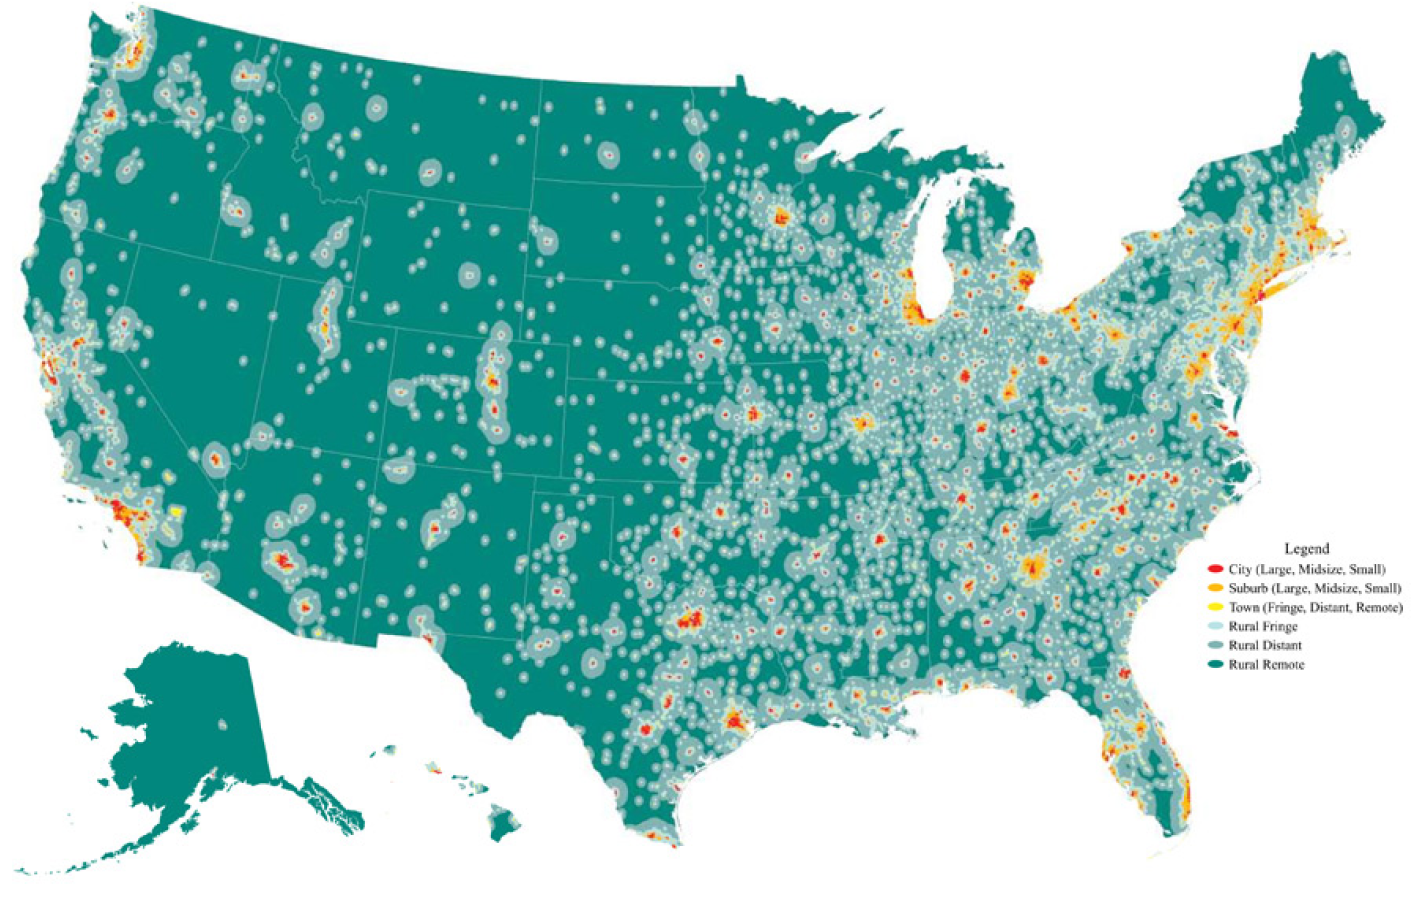
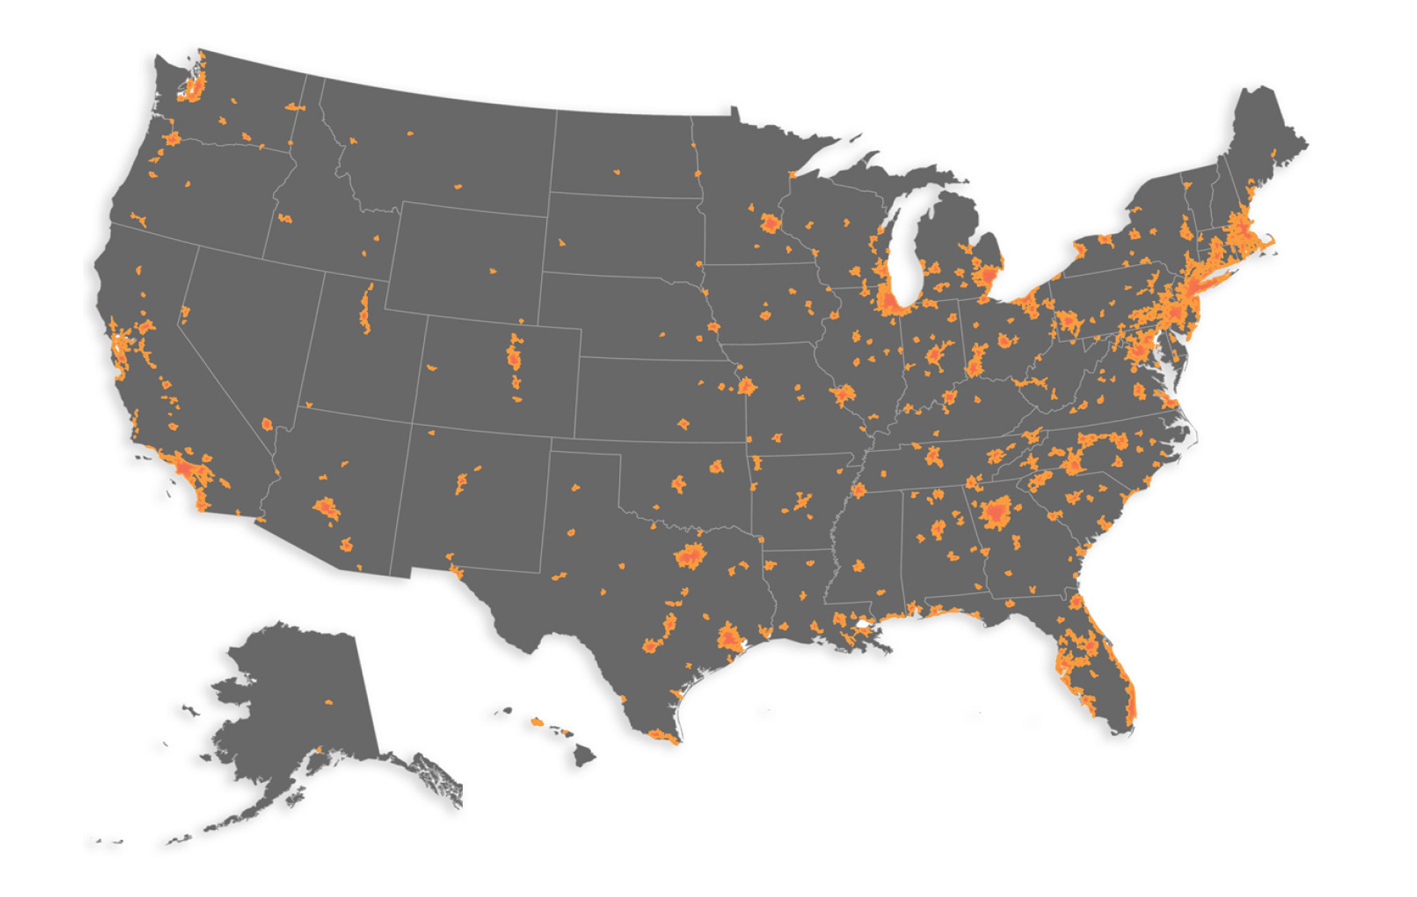
updating images, text changes and nav tweak

diff --git a/FAQ/index.html b/FAQ/index.html
@@ -12,9 +12,9 @@ title: home
 
         <p class="small"><strong>Why is Tree Equity important?</strong></p>
         <p class="small">Trees provide more than beauty or a comfortable place to relax. Much like schools, streets and sewer lines, trees are essential infrastructure. They are vital to the health, wealth and well-being of communities.</p>
-        <ul>
+        <ul class="small">
             <li>Trees across the U.S. absorb 17.4 million tons of air pollutants, preventing 670,000 cases of asthma and other acute respiratory symptoms annually.</li>
-            <li>In cities nationwide, <a href=https://www.americanforests.org/af-news/what-is-the-urban-heat-island-effect/">trees prevent approximately 1,200 heat-related deaths and countless heat-related illnesses annually</a> by lowering surface and air temperatures. The ability of trees to reduce peak temperatures is significant, given that a 10-fold increase in heat-related deaths is expected in the Eastern U.S. by 2050.</li>
+            <li>In cities nationwide, <a href="https://www.americanforests.org/af-news/what-is-the-urban-heat-island-effect/">trees prevent approximately 1,200 heat-related deaths and countless heat-related illnesses annually</a> by lowering surface and air temperatures. The ability of trees to reduce peak temperatures is significant, given that a 10-fold increase in heat-related deaths is expected in the Eastern U.S. by 2050.</li>
             <li>On average, trees in the U.S.reduce energy demand for heating and cooling by 7.2%.</li>
             <li>Trees are a source of income—such as jobs related to tree maintenance and making products out of reclaimed wood. For every $1 million invested in forest restoration, approximately 39 forest-related jobs are created in rural U.S. areas alone.</li>
         </ul>
@@ -25,11 +25,11 @@ title: home
         <p class="small">A tree canopy goal will help you determine where there is a greater need to invest in planting trees, providing a baseline for comparing neighborhoods and estimating progress towards more equitable tree canopy cover. </p>
 
         <p class="small"><strong>I don’t see my community on the map. Why is that?</strong></p>
-        <p class="small">TESA is built for urban forests (specifically in Rhode Island, for now). It’s possible that your community does not fall into a US Census-defined urbanized area for which the Tree Equity Score is calculated. There are additional resources for communities that fall outside this description. Please visit the Rhode Island Department of Environmental Management’s Division of Forest Environment to learn more: <a href=http://www.dem.ri.gov/programs/forestry/">http://www.dem.ri.gov/programs/forestry/</a>.</p>
+        <p class="small">TESA is built for urban forests (specifically in Rhode Island, for now). It’s possible that your community does not fall into a US Census-defined urbanized area for which the Tree Equity Score is calculated. There are additional resources for communities that fall outside this description. Please visit the Rhode Island Department of Environmental Management’s Division of Forest Environment to learn more: <a href="http://www.dem.ri.gov/programs/forestry/">http://www.dem.ri.gov/programs/forestry/</a>.</p>
 
         <p class="small"><strong>Where did you get all of the tool’s data from?</strong></p>
         <p class="small">TESA uses readily available data from: </p>
-        <ul>
+        <ul class="small">
             <li>U.S. Census Bureau</li>
             <li>U.S. Geological Survey</li>
             <li>Rhode Island Geographic Information System</li>
@@ -42,7 +42,7 @@ title: home
         <p class="small">Some data will be updated annually (e.g. census data, surface temperature) or bi-annually (e.g. parcel data). Other data will be updated on a multi-year schedule (e.g. tree canopy) as resources become available.</p>
 
         <p class="small"><strong>Are there other resources you would recommend for improving the tree canopy of Rhode Island from a state or regional level?</strong></p>
-        <ul>
+        <ul class="small">
             <li><a href="https://www.vibrantcitieslab.com/guides/climate-health-action-guide/">Climate & Health Action Guide</a></li>
             <li>RI Urban Forestry Funding and Policy Guide - coming soon! </li>
             <li><a href="http://www.dem.ri.gov/programs/forestry/urban-forestry/index.php">RI Department of Environmental Management - Division of Forestry Environment</a></li>

diff --git a/about/index.html b/about/index.html
@@ -18,7 +18,7 @@ title: home
         <p class="small">A Tree Equity Score uses a science-based approach to determine the tree canopy cover needed in a neighborhood to ensure the 
             <a href=https://www.americanforests.org/our-work/urban-forestry/">people living in urban areas benefit from everything trees provide.</a>
              The score is based on:</p>
-            <ul>
+            <ul class="small">
                 <li>Existing tree canopy cover</li>
                 <li>Population density</li>
                 <li>Income</li>
@@ -34,11 +34,11 @@ title: home
         <p class="small">Most states focus on their forests and prairies when they want to use green space to address the changing climate and its profound impact on our lives. But Rhode Island has taken a different approach- it is the only state in the country to consider its entire geographic footprint as one large urban forest to play “offense and defense” for both climate mitigation and community resilience. Because of the Governor’s commitment to urban forests, The Doris Duke Charitable Foundation (DDCF) selected the state of Rhode Island to partner with American Forests to increase Tree Equity statewide. As a result of DDCF’s investment, Rhode Island is the first state to calculate Tree Equity Scores for all of its urban neighborhoods and pilot a suite of technical, policy and financing tools that aim to unlock the full potential for urban forests to slow climate change and improve public health.</p>
         <p class="small">Our hope is that the urban forestry work in Rhode Island will be an inspiration to other towns and cities to pursue Tree Equity.</p>
         <h5>Diving Deep Locally: Tree Equity Score Analyzer</h5>
-        <p class="small">Rhode Island partnered with American Forests to go beyond Tree Equity Score by creating the Tree Equity Score Analyzer (TESA). This cutting-edge, interactive tool supports both policy and project-level interventions by incorporating local data, such as hospitalizations, carbon sequestration, and flood risk with ownership parcels. Users will be able to create custom reports about the impact of policy interventions encouraging tree planting in priority neighborhoods. At the project level, users can estimate the impacts of tree planting on a parcel or custom area.</p>
+        <p class="small">Rhode Island partnered with American Forests to go beyond Tree Equity Score by creating the <a href="https://rhode-island.treeequityscore.org/">Tree Equity Score Analyzer (TESA)</a>. This cutting-edge, interactive tool supports both policy and project-level interventions by incorporating local data, such as hospitalizations, carbon sequestration, and flood risk with ownership parcels. Users will be able to create custom reports about the impact of policy interventions encouraging tree planting in priority neighborhoods. At the project level, users can estimate the impacts of tree planting on a parcel or custom area.</p>
         <p class="small">While TESA’s primary audience includes state and local decision-makers and local tree advocates, it is accessible to the public to explore Ttree Eequity and help make the case for more tree investment in their neighborhoods.</p>
 
         <h5>Our Funders</h5>
-        <p class="small">This project is made possible by a partnership between the State of Rhode Island, American Forests, and the Environment and Child Well-Being programs of The Doris Duke Charitable Foundation (DDCF). We all have a shared interest in using urban forests as a powerful tool to 
+        <p class="small">This project is made possible by a partnership between the State of Rhode Island, <a href="https://www.americanforests.org/">American Forests</a>, and the Environment and Child Well-Being programs of <a href="https://www.ddcf.org/">The Doris Duke Charitable Foundation (DDCF)</a>. We all have a shared interest in using urban forests as a powerful tool to 
             <a href="https://www.americanforests.org/why-it-matters/climate/">slow climate change</a>,
              improve public health and promote 
              <a href="https://www.americanforests.org/why-it-matters/social-equity/">social equity</a>

diff --git a/index.html b/index.html
@@ -40,7 +40,7 @@ title: home
             <p class="medium">City government employees, community activists, urban foresters and others can use the scores to make the case for planting trees in the neighborhoods that need them most, and allocate the resources needed to do so.</p>
         </div>
         <div class="image-wrapper">
-            <img class="main" src="{{site.baseurl}}/static/media/equity-score.png">
+            <img class="main" src="{{site.baseurl}}/static/media/equity-score.jpg">
         </div>
     </section>
 
@@ -81,23 +81,23 @@ title: home
     </section>
 
     <section class="pilot-locations">
-        <h4>Our pilot locations</h4>
-        <p class="intro medium">Our government and non-profit partners in these locations are leading the way in driving investment in trees to the areas in greatest need.</p>
+        <div class="intro">
+            <h4>Our pilot locations</h4>
+            <p class="medium mb-3">Our government and non-profit partners in these locations are leading the way in driving investment in trees to the areas in greatest need.</p>
+            <a href="https://arcg.is/1rCPji0" target="_blank" class="btn btn-green">Explore</a>
+        </div>
         <div class="layout">
             <div class="column">
-                <img src="{{site.baseurl}}/static/media/location.png" width="270">
+                <img src="{{site.baseurl}}/static/media/tes-ri-map.jpg" width="270" alt="Rhode Island">
                 <p class="location">Rhode Island</p>
-                <a href="https://americanforests.maps.arcgis.com/apps/webappviewer/index.html?id=0c11e0633d354d45bcafb72bc077040e&extent=-13918545.6227%2C2656930.9351%2C-7338846.228%2C6526479.055%2C102100" target="_blank" class="btn btn-green">Explore</a>
             </div>
             <div class="column">
-                <img src="{{site.baseurl}}/static/media/location.png" width="270">
+                <img src="{{site.baseurl}}/static/media/tes-mar-map.jpg" width="270" alt="Maricopa County, AZ (including Phoenix)">
                 <p class="location">Maricopa County, AZ (including Phoenix)</p>
-                <a href="https://tesa.maptian.com/" target="_blank" class="btn btn-green">Explore</a>
             </div>
             <div class="column">
-                <img src="{{site.baseurl}}/static/media/location.png" width="270">
+                <img src="{{site.baseurl}}/static/media/tes-sf-map.jpg" width="270" alt="San Francisco Bay Area">
                 <p class="location">San Francisco Bay Area</p>
-                <a href="https://tesa.maptian.com/" target="_blank" class="btn btn-green">Explore</a>
             </div>
         </div>
     </section>
@@ -117,7 +117,7 @@ title: home
 
     <section class="looking-ahead">
         <div class="image-wrapper">
-            <img src="{{site.baseurl}}/static/media/looking-ahead.png">
+            <img src="{{site.baseurl}}/static/media/looking-ahead.png" alt="map of the united states highlighting urbanized areas">
         </div>
         <div class="text">
             <h4>Looking ahead</h4>

diff --git a/methodology/index.html b/methodology/index.html
@@ -16,14 +16,14 @@ title: home
 
         <h6>Density Adjusted Canopy Target</h6>
         <p class="small">The canopy target -- which is meant to be equitable, aspirational and achievable --  requires the following data:</p>
-        <ul>
+        <ul class="small">
             <li>Tree canopy cover. High resolution tree canopy where available, the National Land Cover Database where it is not.  </li>
             <li>Census American Community Survey (ACS) 2018 5-year Block Group population estimates</li>
             <li>Census ACS 2018 5-year city and block group Median Income estimates</li>
         </ul>
 
         <p class="small">To identify a baseline canopy target, we use generalized natural biome baseline targets selected in conjunction with the United States Forests Service. We select the baseline target based on the location of the municipality.</p>
-        <ul>
+        <ul class="small">
             <li>Forest: 40%</li>
             <li>Grassland: 25%</li>
             <li>Desert: 20%</li>
@@ -60,7 +60,7 @@ title: home
          <p class="small">The neighborhood canopy gap, GAP, is calculated by subtracting the existing neighborhood canopy from the density adjusted target, that is: <i>GAP = GOAL – EC, where EC is existing % canopy for that neighborhood</i></p>
          <p class="small">The canopy Gap is then normalized to a score from 0-100.</p>
          <p class="small">GAPScore=100*GAP - GAPminGAPmax - GAPmin , where:</p>
-         <ul>
+         <ul class="small">
              <li>GAPmax is the maximum GAP value citywide for that indicator; and</li>
              <li>GAPmin is the minimum GAP value citywide for that indicator.</li>
          </ul>
@@ -68,16 +68,15 @@ title: home
 
          <h4>Step 3: The Priority Index</h4>
          <p class="small">The Priority Index is developed to help prioritize the need for planting to achieve Tree Equity. The priority index includes the following equally-weighted characteristics:</p>
-         <ul>
+         <ul class="small">
              <li><i>Income:</i>  Percentage of population below 200% of poverty</li>
              <li><i>Employment:</i> Unemployment rate</li>
              <li><i>Race:</i> Percentage of people who are not white non-Hispanic</li>
              <li><i>Climate:</i> Urban Heat Island severity</li>
-             <li></li>
          </ul>
          <p class="small">These measures are normalized and combined to create a simple priority index from 0 to 1, where 1 indicates a greater amount of inequity. The indices, N, are calculated as follows:</p>
          <p class="small">N=x-xminxmax - xmin , where, for each indicator, N,</p>
-         <ul>
+         <ul class="small">
              <li>x is the value for that neighborhood for that indicator;</li>
              <li>xmax is the maximum value citywide for that indicator; and</li>
              <li>xmin is the minimum value citywide for that indicator.</li>

diff --git a/dictionary/index.html b/dictionary/index.html
@@ -14,7 +14,7 @@ title: home
         <p class="small"><strong>Health Equity Zone: </strong>Geographic areas in Rhode Island where existing opportunities emerge and investments are made to address differences in health outcomes. Through a collaborative, community-led process, each Health Equity Zone conducts a needs assessment and implements a data-driven plan of action to address the unique social, economic and environmental factors preventing people from being as healthy as possible.</p>
         <p class="small"><strong>Flood risk : </strong>An estimate of high (100-year flood zone), moderate (500-year flood zone), and low flood risk based on FEMA flood designations.</p>
         <p class="small"><strong>Impact assessment: </strong>An estimate of the benefit new trees would have within an area. Benefits included in TESA include:</p>
-        <ul>
+        <ul class="small">
             <li>Heat reduction</li>
             <li>Energy savings</li>
             <li>Flood management</li>
@@ -30,7 +30,7 @@ title: home
         <p class="small"><strong>People of Color: </strong>Percentage of people in a block group that are Black or African American, American Indian or Alaska Native, Asian, Native Hawaiian or Other Pacific Islander, and includes all people classified as Hispanic by the Census Bureau.</p>
         <p class="small"><strong>People in Poverty: </strong>Percentage of people in a block group living on incomes below 200% of the federally-designated poverty line.</p>
         <p class="small"><strong>Priority Index: </strong>Five equally-weighted climate and socio-economic characteristics that are integrated into the Tree Equity Score. These widely-available characteristics include:</p>
-        <ul>
+        <ul class="small">
             <li>Percentage of people who are unemployed</li>
             <li>Percentage of people living  below 200% of of the poverty level</li>
             <li>Percentage of people of color </li>

diff --git a/_includes/header-home.html b/_includes/header-home.html
@@ -2,16 +2,15 @@
     <div class="banner">Powered by <span>American Forests</span></div>
     <div class="content-wrapper">
         <a href="{{site.baseurl}}/"><img class="logo" src="{{site.baseurl}}/static/media/logo.svg"></a>
-        <ul class="nav justify-content-center align-middle">
+        <ul class="nav align-content-center">
                 <!-- <a class="btn btn-outline-success" href="https://rhodeisland.treeequityscore.org">Launch App</a> -->
                 <!-- <button class="btn btn-outline-success btn-sm" style="height:40%;" href="https://rhodeisland.treeequityscore.org">Launch App</button> -->
 
-            <li class="nav-item dropdown">
+            <li class="nav-item dropdown mr-4">
                 <a class="nav-link dropdown-toggle" href="/about" id="navbarDropdownMenuLink" data-toggle="dropdown" aria-haspopup="true" aria-expanded="false">
                 Menu
                 </a>
                 <div class="dropdown-menu" aria-labelledby="navbarDropdownMenuLink">
-                    <a class="dropdown-item" href="/">Home</a>
                     <a class="dropdown-item" href="/about">About</a>
                     <a class="dropdown-item" href="/methodology">Methodology</a>
                     <a class="dropdown-item" href="/dictionary">Data Dictionary</a>
@@ -20,7 +19,9 @@
                     <a class="dropdown-item" href="/privacy">Privacy</a>
                 </div>
             </li>
-            <a href="https://rhodeisland.treeequityscore.org/" target="_blank" class="btn btn-dark">Launch App</a>        
+            <li class="nav-item">
+                <a href="https://rhodeisland.treeequityscore.org/" target="_blank" class="btn btn-dark">Launch App</a>        
+            </li>
        </ul>
     </div>
     <div>

diff --git a/datasources/index.html b/datasources/index.html
@@ -8,7 +8,7 @@ title: home
     <div class="mx-auto" >
     <section class="about">
         <h2>Data Sources</h2>
-        <h5><strong>Priority Index</strong></h5>
+        <h5 class="te-text-color-brand">Priority Index</h5>
         <table class="table">
             <thead>
                 <tr>
@@ -50,7 +50,7 @@ title: home
                 </tr>
             </tbody>
             </table>
-    <h5><strong>Neighborhood Goal</strong></h5>
+    <h5 class="te-text-color-brand">Neighborhood Goal</h5>
         <table class="table">
             <thead>
                 <tr>
@@ -115,7 +115,7 @@ title: home
                 </tr>
             </tbody>
             </table>
-        <h5><strong>Boundaries</strong></h5>
+        <h5 class="te-text-color-brand">Boundaries</h5>
         <table class="table">
             <thead>
                 <tr>
@@ -167,7 +167,7 @@ title: home
                 </tr>
             </tbody>
             </table>
-        <h5><strong>Health</strong></h5>
+        <h5 class="te-text-color-brand">Health</h5>
         <table class="table">
             <thead>
                 <tr>

diff --git a/css/main.scss b/css/main.scss
@@ -37,6 +37,14 @@ main{
   left:-9999px;
 }
 
+p.small + ul.small {
+  margin-top: -22px;
+}
+
+.table {
+  margin: 0 0 5em;
+}
+
 #home{
 
   .hero{
@@ -56,7 +64,9 @@ main{
       width:100vw;
       height:100%;
       position: absolute;
-      background:url("../static/media/hero-bg.png");
+      background:url("../static/media/hero-bkg.jpg");
+      background-repeat: no-repeat;
+      background-size: cover;
     }
 
     .layout{
@@ -101,12 +111,12 @@ main{
     }
 
     h1{
-      color:white;
+      color: $white;
       margin-bottom:24px;
     }
     
     p{
-      color:white;
+      color: $white;
       font-weight:600;
       font-size:22px;
     }
@@ -442,8 +452,8 @@ main{
       width:200vw;
       height:100%;
       position: absolute;
-      background-color:white;
-      color: black;
+      background-color: $white;
+      color: $black;
     }
 
     h2 {
@@ -482,5 +492,9 @@ main{
   width: 80%;
 }
 .dropdown a {
-  color: black;
+  color: $black;
+}
+
+.te-text-color-brand {
+  color: $green-59;
 }

diff --git a/privacy/index.html b/privacy/index.html
@@ -23,7 +23,7 @@ title: home
 
         <h5>The Way We Use Personal Information</h5>
         <p class="small">American Forests will not sell or rent to third parties any individually identifying information, such as names, email addresses, mailing addresses, telephone numbers, or any other personal information which you voluntarily provide to us, except in the following situations: </p>
-        <ul>
+        <ul class="small">
             <li>To provide the services you have requested</li>
             <li>To the extent necessary to comply with applicable laws or valid legal processes;</li>
             <li>To protect American Forests intellectual property and other legal rights; </li>

diff --git a/rhode-island/index.html b/rhode-island/index.html
@@ -49,7 +49,7 @@ title: rhode-island
             </div>
             <div class="text">
                 <h4>Features</h4>
-                <ul>
+                <ul class="small">
                     <li class="medium">Explore every inch of Rhode Island, across municipalities, city parcels, and more.</li>
                     <li class="medium">Dive deep with environmental, climate, demographic, and health data.</li>
                     <li class="medium">Build, save, and share custom tree planting scenarios.</li>

diff --git a/_sass/_variables.scss b/_sass/_variables.scss
@@ -1,11 +1,14 @@
 //Variables
 $transition-time:.2s;
+$black: #000000;
 $gray1: #333333;
 $gray2: #BDBDBD;
 $gray3: #F2F2F2;
+$white: #FFFFFF;
 $green1:#6CC396;
 $green2:#9CCB3D;
 $green3:#5EB546;
+$green-59: #6CC296;
 $orange: #F99D3E;
 
 // Mixins
